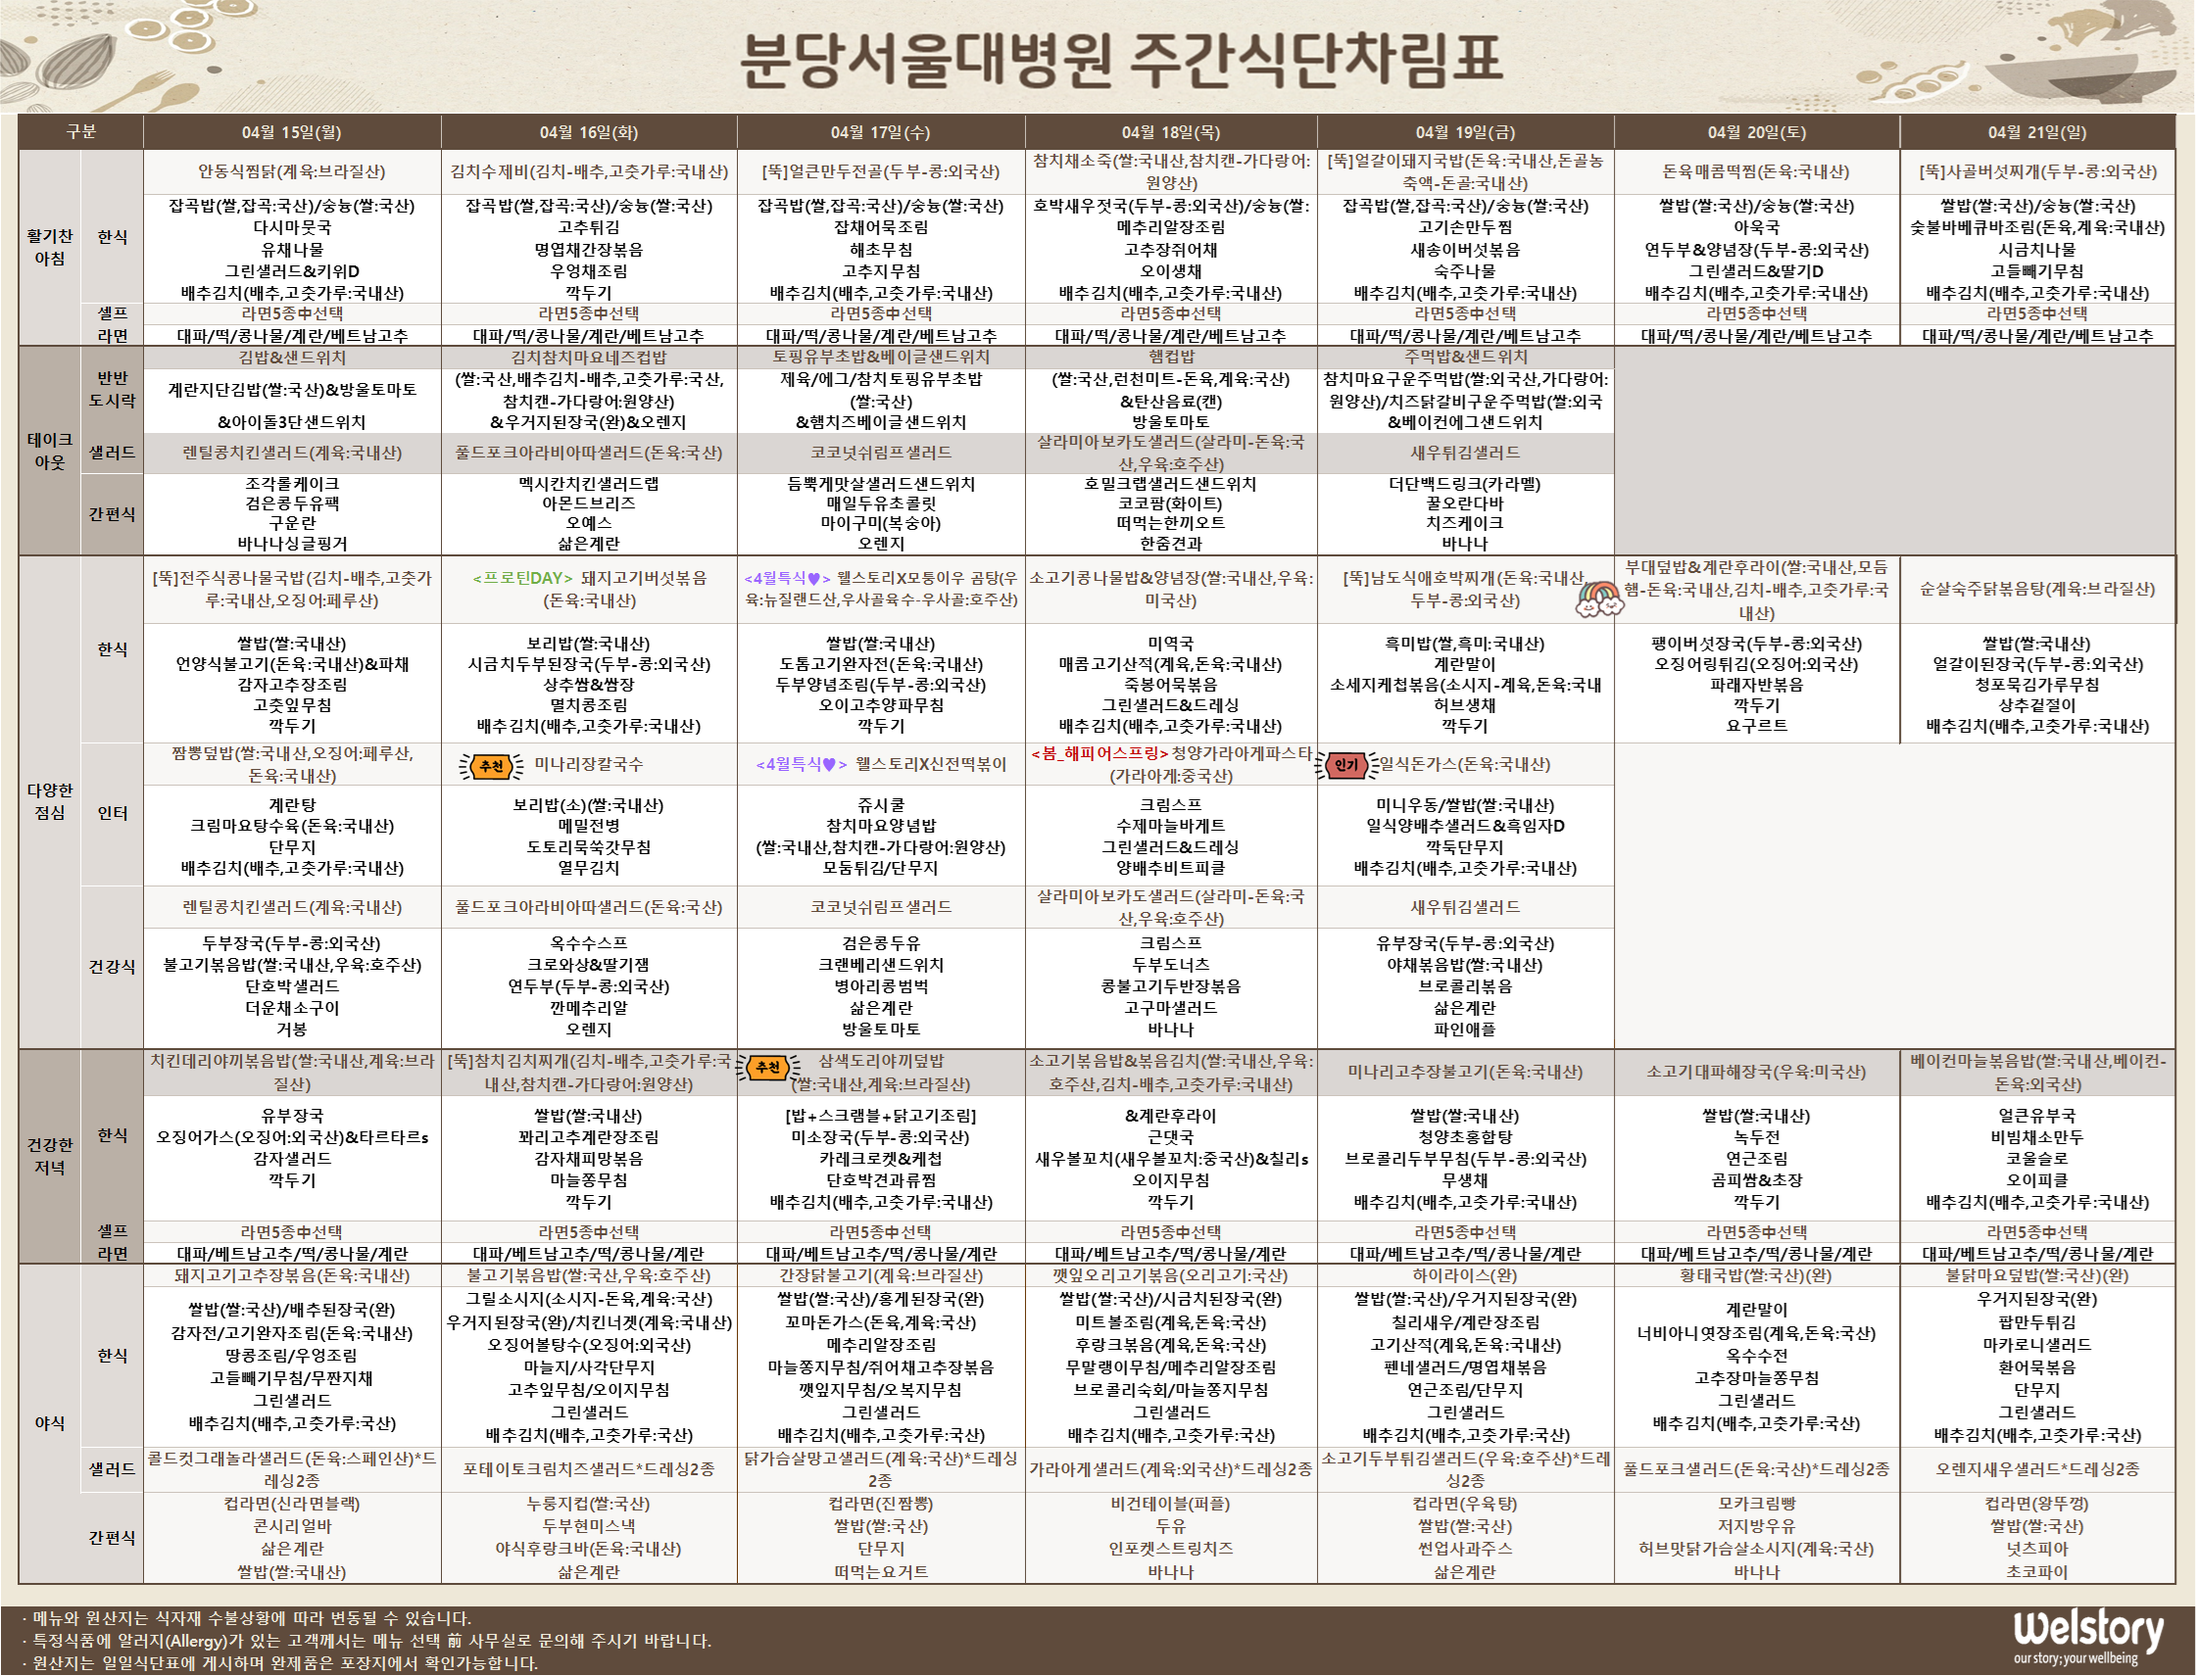
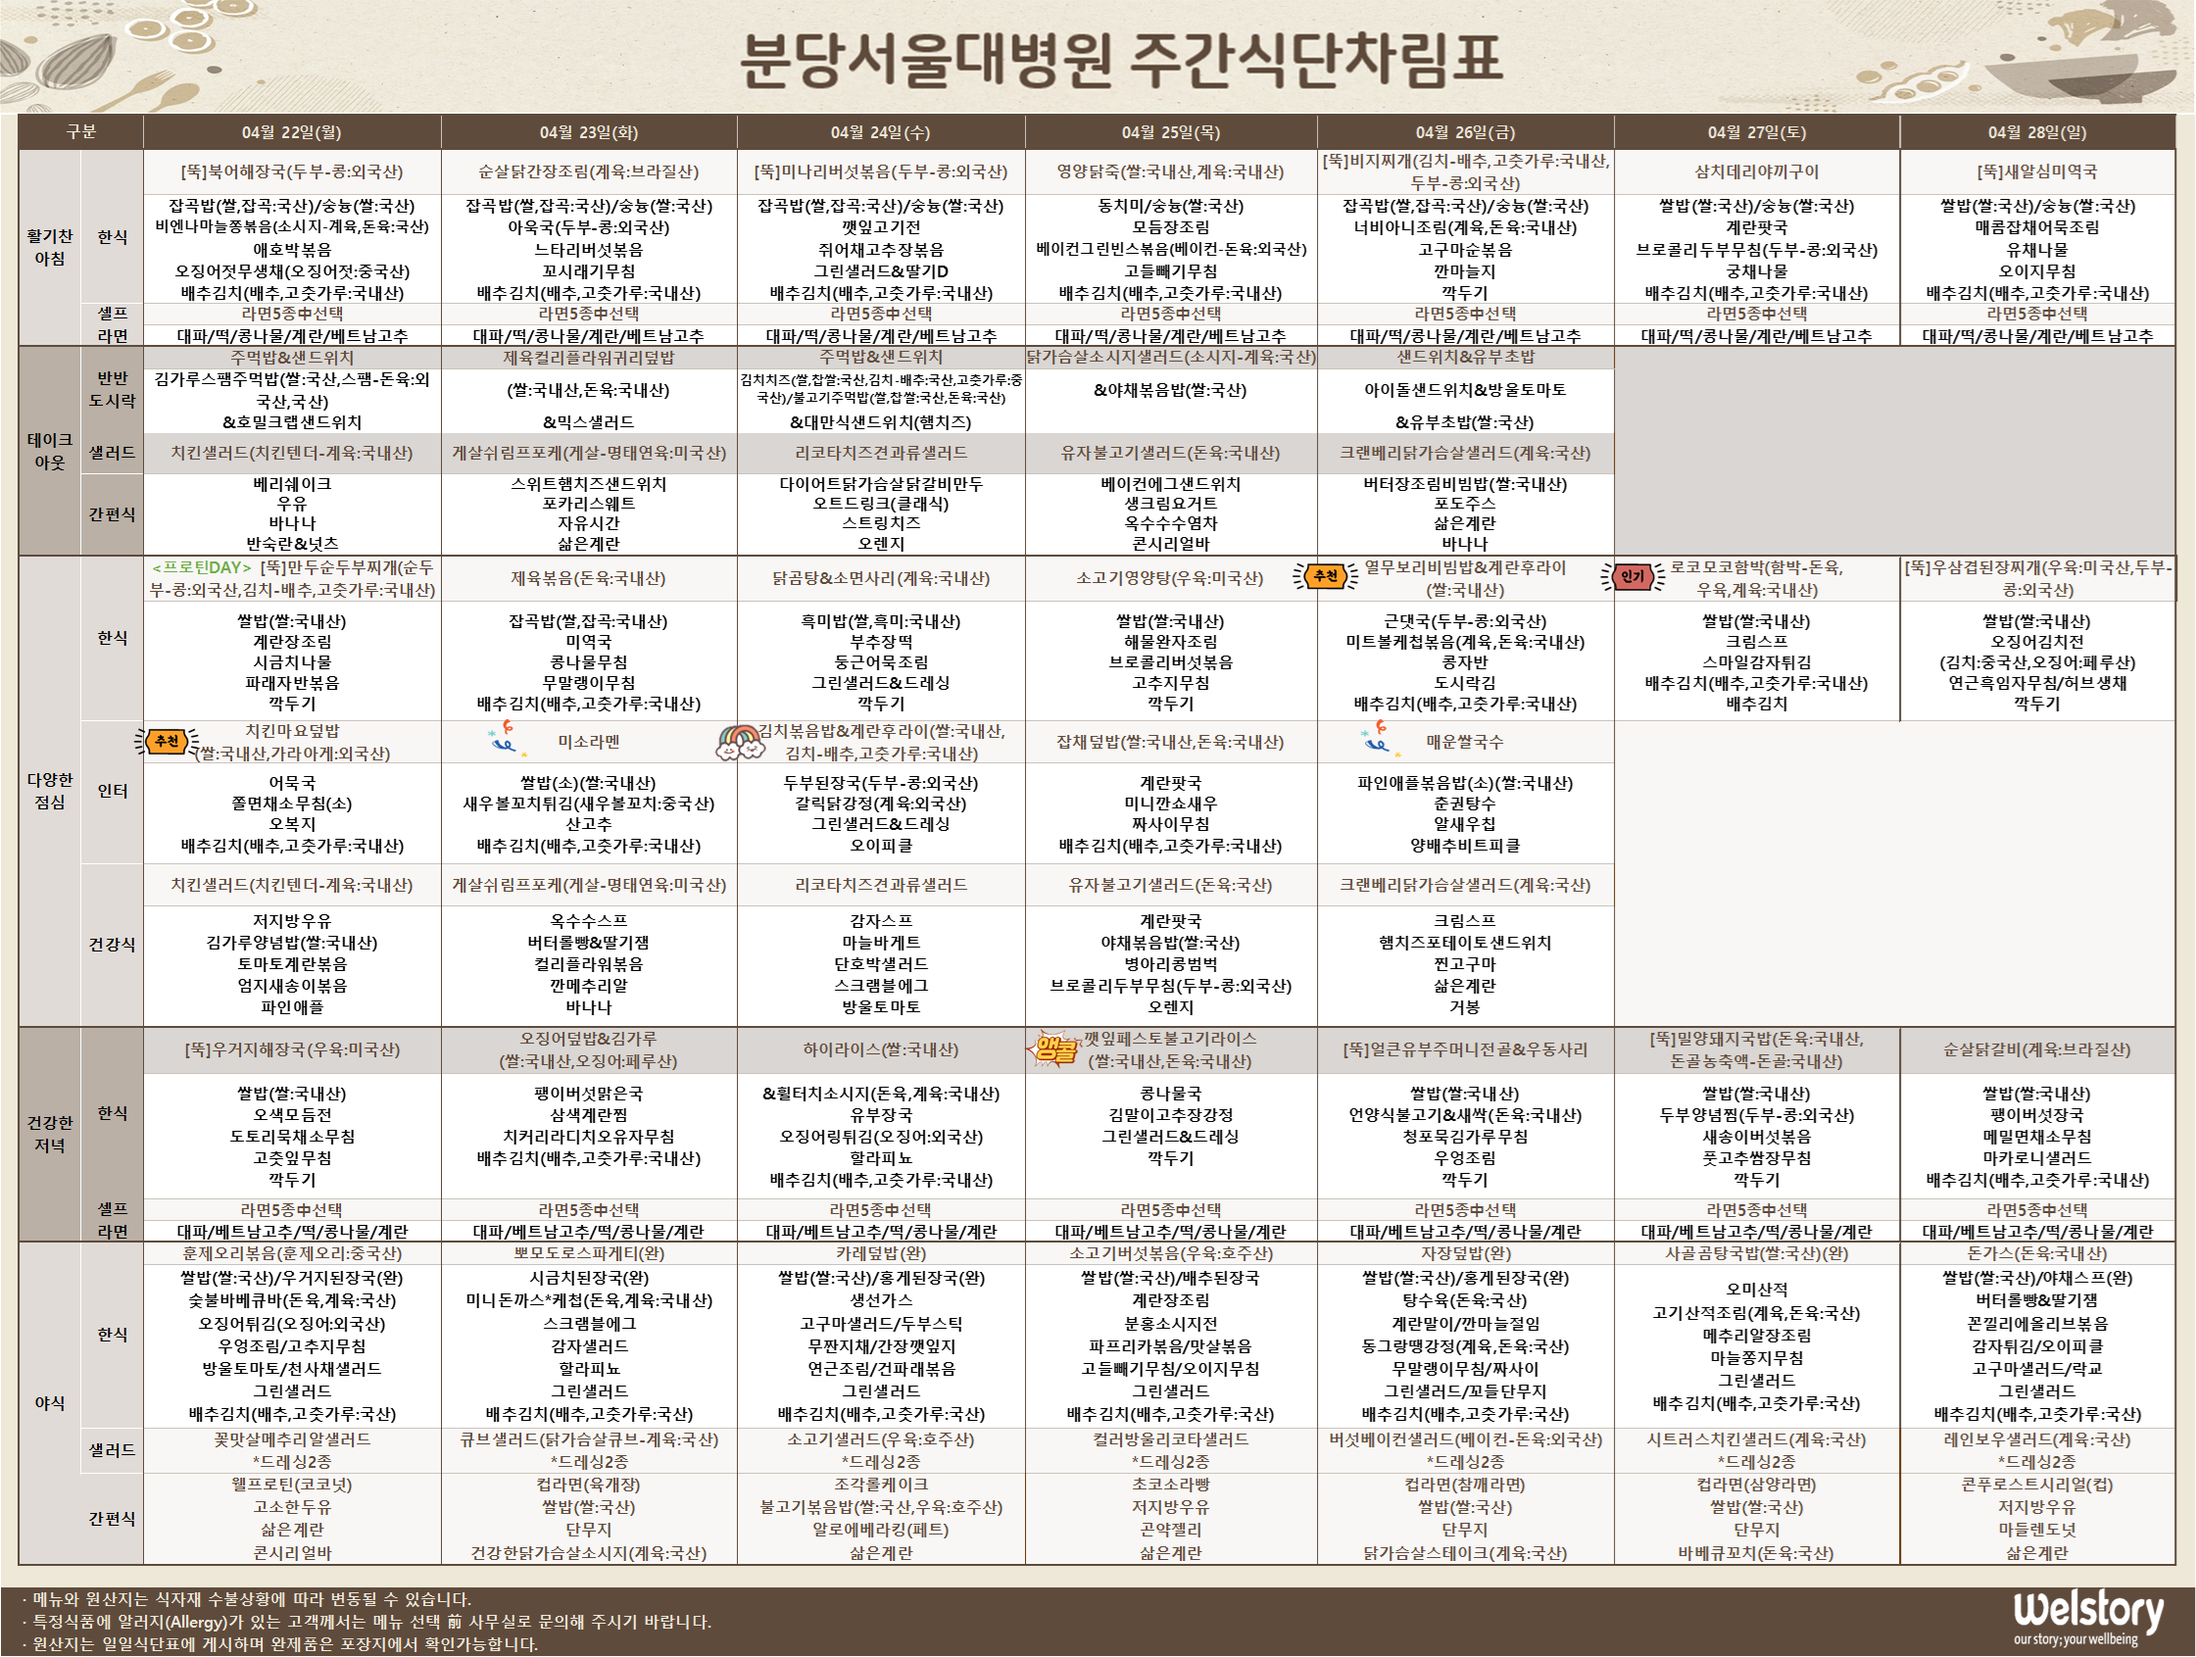
Add files via upload

diff --git a/6/index.html b/6/index.html
@@ -12,13 +12,13 @@
 <h2> 메뉴 업데이트는 주인장 여유가 되면 합니다. (이미지 확대해서 보세요) <br> </h2>
 
 <br>
-<h1> 4월 3주차 </h1>
+<h1> 4월 4주차 </h1>
 <img src="수술.png" width="100%">
 <br>
 
 
 
-<h6> Last update 2024/04/15  </h6>  
+<h6> Last update 2024/04/19  </h6>  
 <h1 >맛있게 드세요.  </h1> 
 
 </body>

diff --git a/1/index.html b/1/index.html
@@ -13,14 +13,14 @@
 
 
 <br>
-<h1> 4월 3주차  </h1>
+<h1> 4월 4주차  </h1>
 <img src="1동.png" width="100%">
 <br>
 
 
 
 
-<h6> Last update 2024/04/15  </h6>  
+<h6> Last update 2024/04/19  </h6>  
 <h1 >맛있게 드세요.  </h1> 
 
 </body>

diff --git a/2/index.html b/2/index.html
@@ -13,13 +13,13 @@
 
 
 <br>
-<h1> 4월 3주차  </h1>
+<h1> 4월 4주차  </h1>
 <img src="HIP.png" width="100%">
 <br>
 
 
 
-<h6> Last update 2024/04/15  </h6>  
+<h6> Last update 2024/04/19  </h6>  
 <h1 >맛있게 드세요.  </h1> 
 
 </body>
